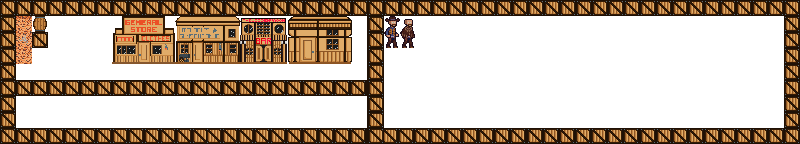
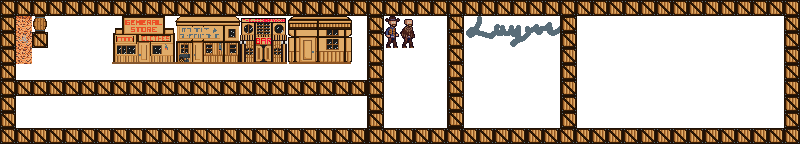
Massive refactoring of GameMap for new layering. WesternMaker updated and new assets as well.

Changed region(s): [[0.5312, 0.1111, 0.7188, 0.8889]]

diff --git a/utilities/GameMap.py b/utilities/GameMap.py
@@ -2,6 +2,15 @@ import pygame
 import json
 from utilities.consts import *
 
+def empty_map(size=(50, 18)):
+    tile_map = []
+    for x in range(0, size[0]):
+        row = []
+        for y in range(0, size[1]):
+            row.append(Tile(None))
+        tile_map.append(row)
+    return tile_map
+
 
 class Tile:
     def __init__(self, image_path, interactable=False, category="none", rect=None, surf=None):
@@ -33,34 +42,54 @@ class Layer:
         self.layer_data = layers_data[layer_name]
         self.name = layer_name
 
+    def extend_map(self, xy):
+        x, y = xy
+        cur_x = len(self.layer_data)
+        cur_y = len(self.layer_data[0])
+
+        if x+1 > cur_x:
+            new_base_x = x + 1
+        else:
+            new_base_x = cur_x
+        if y+1 > cur_y:
+            new_base_y = y+1
+        else:
+            new_base_y = cur_y
+
+        base_map = empty_map((new_base_x, new_base_y))
+        for x in range(0, len(self.layer_data)):
+            for y in range(0, len(self.layer_data[x])):
+                if self.layer_data[x][y].image:
+                    base_map[x][y] = self.layer_data[x][y]
+
+        self.layer_data = base_map
+
     def get_tile(self, xy):
         for tile in self.layer_data:
             if tile["coords"] == xy:
                 return tile
         return None
 
+    def add_tile(self, pos, tile):
+        x, y = pos
+        try:
+            self.layer_data[x][y] = tile
+        except KeyError:
+            self.extend_map(pos)
+            self.add_tile(pos, tile)
+
 
 class GameMap:
     def __init__(self, filename=None):
         self.tile_map = []
-        self.map_size = (50, 18)
+        self.map_size = [50, 18]
         self.player_location = None
         self.layers = []
 
         if filename:
             self.load_map(filename)
         else:
-            self.tile_map = self.empty_map()
-
-    @staticmethod
-    def empty_map(size=(50, 18)):
-        tile_map = []
-        for x in range(0, size[0]):
-            row = []
-            for y in range(0, size[1]):
-                row.append(Tile(None))
-            tile_map.append(row)
-        return tile_map
+            self.tile_map = empty_map()
 
     @staticmethod
     def empty_save_data():
@@ -88,27 +117,23 @@ class GameMap:
     def load_tile(tile_data):
         return Tile(tile_data["image"], tile_data["interactable"], tile_data["category"])
 
+    def get_layer(self, layer_name):
+        for pos in self.layers:
+            if pos.name == layer_name:
+                return pos
+        return None
+
     def load_map(self, filename):
         with open(os.path.join(MAPS_DIRECTORY, filename), "r") as f:
             map_data = json.load(f)
 
-        base_map = self.empty_map(map_data["meta"]["size"])
+        base_map = empty_map(map_data["meta"]["size"])
         self.layers = [Layer(map_data["layers"], layer) for layer in map_data["layers"]]
-
-        width, height = map_data["meta"]["size"]
-        for x in range(width):
-            for y in range(height):
-                for layer in self.layers:
-                    tile_data = layer.get_tile([x, y])
-                    if tile_data:
-                        base_map[x][y] = self.load_tile(tile_data)
 
         try:
             self.player_location = map_data["entities"]["player"]["location"]
         except KeyError:
             self.player_location = None
-
-        self.tile_map = base_map
 
     def save_map(self, filename, player_location=None):
         map_data = self.empty_save_data()
@@ -118,51 +143,32 @@ class GameMap:
             except KeyError:  # If the map has been saved before, this format is slightly different. TODO this
                 map_data["layers"][layer.name] = layer.layer_data
 
-        # TODO REMOVE THIS AND INTRODUCE LAYERING IN GAME MODES PROPERLY
-        map_data["layers"]["BASE"] = self.get_tiles(self.tile_map)
-
         if player_location:
             map_data["entities"]["player"] = player_location
-
-        map_data["meta"]["size"] = self.map_size
 
         with open(os.path.join(MAPS_DIRECTORY, filename), "w") as f:
             json.dump(map_data, f, indent=4)
 
-    def extend_map(self, xy):
-        x, y = xy
-        cur_x = len(self.tile_map)
-        cur_y = len(self.tile_map[0])
-
-        if x+1 > cur_x:
-            new_base_x = x + 1
+    def place_tile(self, position, tile, layer_name):
+        layer = self.get_layer(layer_name)
+        if layer:
+            layer.add_tile(position, tile)
         else:
-            new_base_x = cur_x
-        if y+1 > cur_y:
-            new_base_y = y+1
-        else:
-            new_base_y = cur_y
-
-        base_map = self.empty_map((new_base_x, new_base_y))
-        for x in range(0, len(self.tile_map)):
-            for y in range(0, len(self.tile_map[x])):
-                if self.tile_map[x][y].image:
-                    base_map[x][y] = self.tile_map[x][y]
-
-        self.map_size = (new_base_x, new_base_y)
-        self.tile_map = base_map
+            print(f"Layer '{layer_name}' not found")
 
     def render(self, screen, offset=(0, 0), debug=False, fps=None):
         x_offset, y_offset = offset
-        for x in range(0, len(self.tile_map)):  # loads map
-            for y in range(0, len(self.tile_map[x])):
-                tile = self.tile_map[x][y]
-                if tile.image:
-                    screen.blit(tile.image, ((x * 16) - x_offset, y * 16))
-                    if tile.interactable:
-                        tile.rect = pygame.Rect((x * 16) - x_offset, y * 16, 16, 16)
 
-        if debug:
+        for layer in self.layers:
+            tile_map = layer.layer_data
+            for x in range(0, len(tile_map)):  # loads map
+                for y in range(0, len(tile_map[x])):
+                    tile = tile_map[x][y]
+                    if tile.image:
+                        screen.blit(tile.image, ((x * 16) - x_offset, y * 16))
+                        if tile.interactable:
+                            tile.rect = pygame.Rect((x * 16) - x_offset, y * 16, 16, 16)
+        if debug:  # TODO change this to use a layer or combination of layers
             for y in range(0, len(self.tile_map[0])):
                 for x in range(0, len(self.tile_map)):
                     rect = pygame.Rect((x*16)-x_offset, (y*16)-y_offset, 16, 16)

diff --git a/gamemodes/WesternMaker.py b/gamemodes/WesternMaker.py
@@ -25,6 +25,7 @@ class WesternMaker:
         self.running = False
         self.debug = False
         self.selected_object = Tile(["assets", "dirt.png"], interactable=True)
+        self.selected_layer = "BASE"
 
         self.GameMap = GameMap()
         self.x_offset = 0
@@ -33,6 +34,7 @@ class WesternMaker:
         self.save_button_image = pygame.image.load(os.path.join(ASSETS_DIRECTORY, GUI_DIRECTORY, "save-button.png"))
         self.play_button_image = pygame.image.load(os.path.join(ASSETS_DIRECTORY, GUI_DIRECTORY, "play-button.png"))
         self.load_button_image = pygame.image.load(os.path.join(ASSETS_DIRECTORY, GUI_DIRECTORY, "load-button.png"))
+        self.newl_button_image = pygame.image.load(os.path.join(ASSETS_DIRECTORY, GUI_DIRECTORY, "new-button.png"))
         self.screen = None
 
         # TODO unhardcode this
@@ -48,6 +50,9 @@ class WesternMaker:
 
         self.load_button = ImageButton((24 * 16, 22 * 16), self.load_button_image, on_click=self.load_map)
         self.buttons.append(self.load_button)
+
+        self.newlayer_button = ImageButton((24 * 16, 22 * 16), self.newl_button_image, on_click=self.new_layer)
+        self.buttons.append(self.newlayer_button)
 
         self.grass_button = ImageButton((16, 19 * 16), TILE_GRASS, image_path=[ASSETS_DIRECTORY, "grass.png"])
         self.buttons.append(self.grass_button)
@@ -108,6 +113,8 @@ class WesternMaker:
         name = self.filename_input.text
         self.GameMap.save_map(name)
         self.global_config.default_world = name
+
+    def new_layer(self):
 
     def quickplay(self):
         self.GameMap.save_map("tempmap.json")

diff --git a/gamemodes/TreasureProtect.py b/gamemodes/TreasureProtect.py
@@ -7,7 +7,7 @@ from pygame.locals import (
     QUIT,
 )
 from entities import Player, Bandit
-from utilities.utilities import GameState
+from utilities.utilities import GameState, Camera
 from utilities.GameMap import GameMap
 from utilities.consts import *
 import random
@@ -21,6 +21,7 @@ class TreasureProtect:  # TODO redo sound handling so sound settings can be chan
         self.GS = GameState()
 
         self.GS.player = Player()
+        self.GS.Camera = Camera(self.GS.player)
         self.GS.entities.add(self.GS.player)
 
         self.goal = (14*16, 18*16)
@@ -73,7 +74,7 @@ class TreasureProtect:  # TODO redo sound handling so sound settings can be chan
             self.GS.dt = self.GS.clock.tick(60) / 1000
             self.screen.blit(TREASURE_SKY, (0, 0))
 
-            self.GS.GameMap.render(self.screen, (0, 0), self.GS.debug)
+            self.GS.GameMap.render(self.screen, self.GS.Camera.offset, self.GS.debug)
 
             self.GS.curs_pos = pygame.mouse.get_pos()
             pygame.mouse.set_visible(False)
@@ -90,4 +91,5 @@ class TreasureProtect:  # TODO redo sound handling so sound settings can be chan
             for entity in self.GS.entities:
                 self.screen.blit(entity.surf, entity.rect)
 
+            self.GS = self.GS.Camera.update(self.GS)
             pygame.display.flip()

diff --git a/gamemodes/WorldRunner.py b/gamemodes/WorldRunner.py
@@ -71,7 +71,7 @@ class WorldRunner:  # TODO redo sound handling so sound settings can be changed
         pygame.mixer.Channel(0).play(self.soundtrack, loops=-1)
         while self.GS.running:
             self.GS.dt = self.GS.clock.tick(60) / 1000
-            self.screen.fill((255, 255, 255))
+            self.screen.blit(pygame.image.load(os.path.join(ASSETS_DIRECTORY, "stitched-bg.png")), (-self.GS.Camera.offset[0], 0))
 
             self.GS.GameMap.render(self.screen, self.GS.Camera.offset, self.GS.debug)
 

diff --git a/utilities/GUI.py b/utilities/GUI.py
@@ -19,6 +19,8 @@ def file_loader(screen, filename="?"):
         pygame.display.flip()
 
 
+
+
 class TextInput:
     def __init__(self, x, y, text="input here"):
         self.rect = pygame.Rect((x, y), FONT.size(text))

diff --git a/gamemodes/MainMenu.py b/gamemodes/MainMenu.py
@@ -5,7 +5,6 @@ from pygame.locals import (
     KEYDOWN,
     QUIT,
 )
-
 from utilities.GameMap import GameMap
 from utilities.GUI import Button
 from utilities.consts import *
